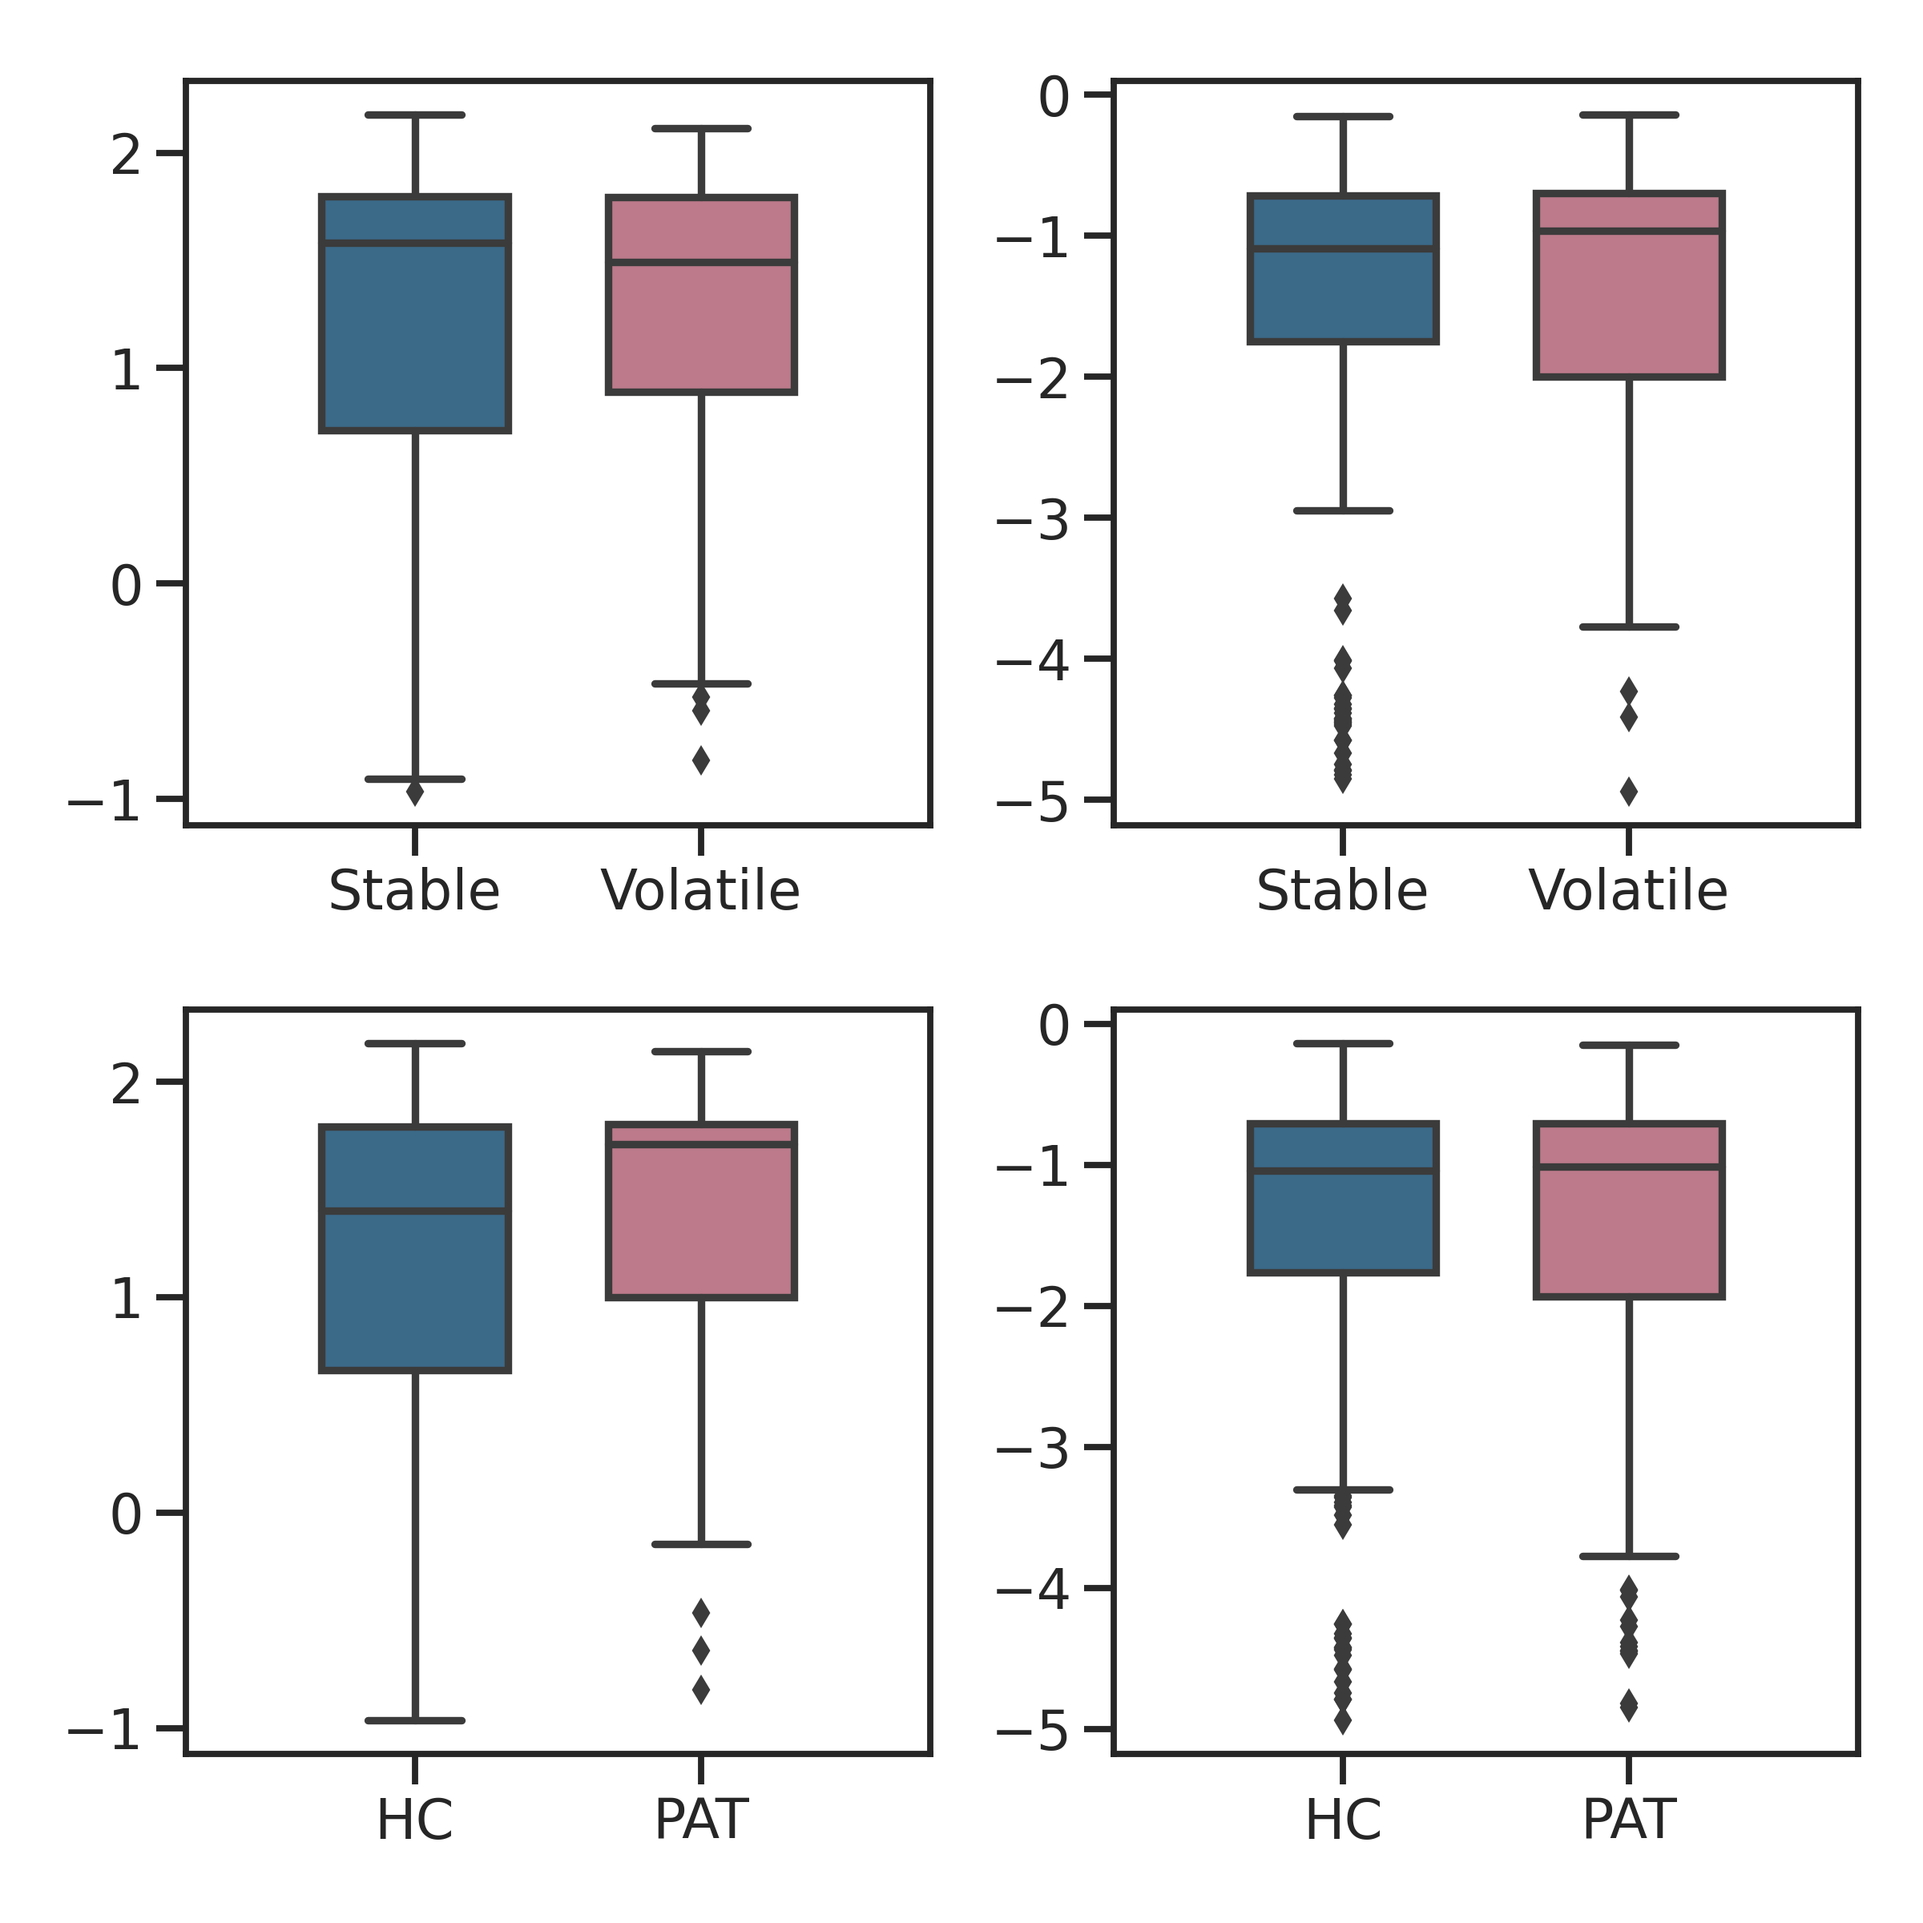
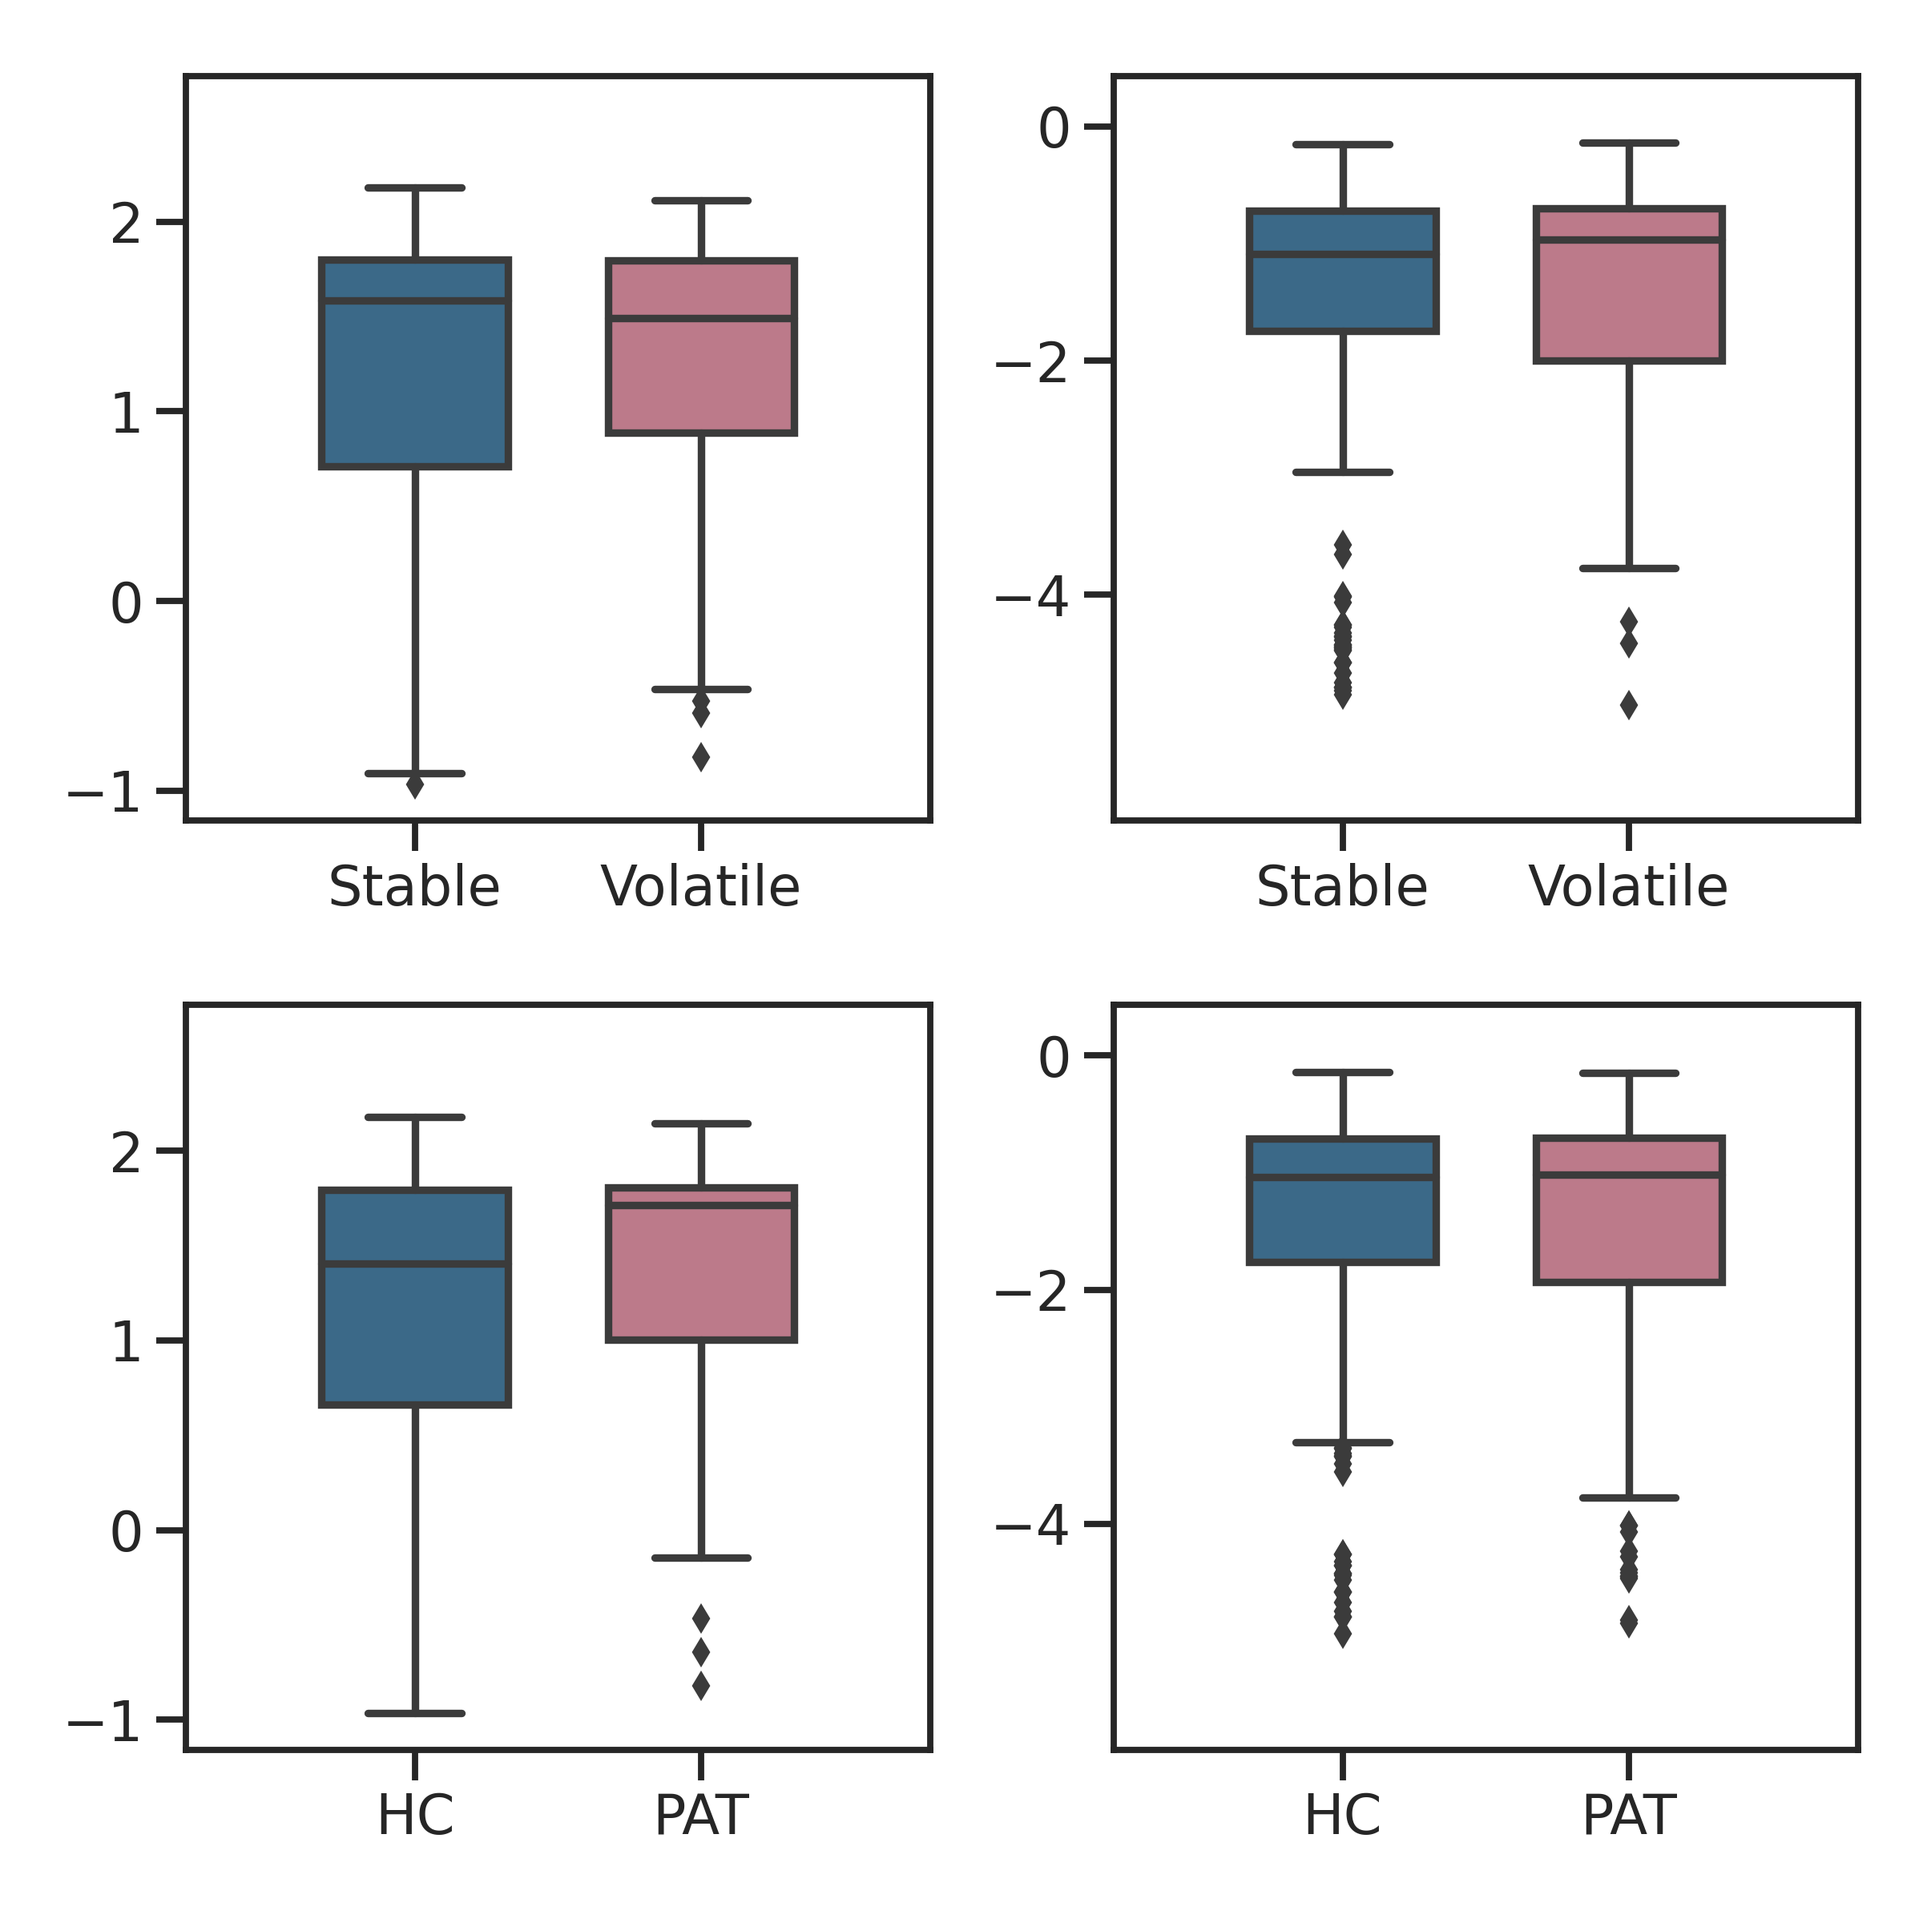
add fig0 lr effect

diff --git a/m3_visualize.py b/m3_visualize.py
@@ -100,6 +100,7 @@ def LR_effect():
             data['is_PAT'] = data['group'].apply(lambda x: x!='HC')
             data = data.groupby(by=['sub_id', 'b_type', 'feedback_type']).mean().reset_index()
             print(f'---------{agent}: {cond}')
+            ymin, ymax = data[tar[0]].min(), data[tar[0]].max()
             if cond == 'is_PAT':
                 t_test(data, 'is_PAT==0', 'is_PAT==1', tar=tar)
             elif cond == 'b_type':
@@ -108,6 +109,7 @@ def LR_effect():
                             palette=viz.Palette, ax=ax)
             ax.set_xlim([-.8, 1.8])
             ax.set_xticks([0, 1])
+            ax.set_ylim([ymin-abs(ymin)*.2, ymax+abs(ymax-1)*.5])
             if cond == 'is_PAT':
                 ax.set_xticklabels(['HC', 'PAT'])
             elif cond == 'b_type':
